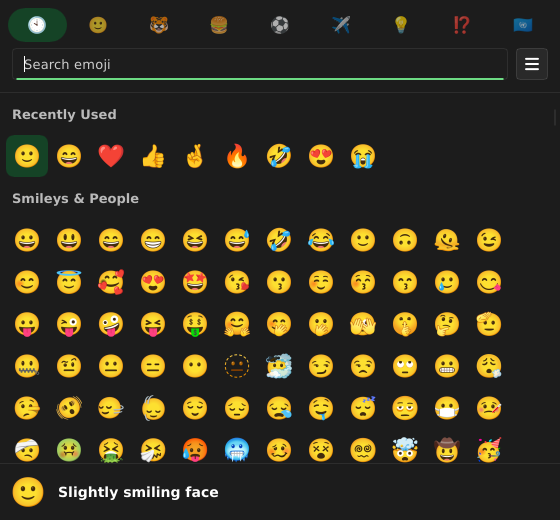
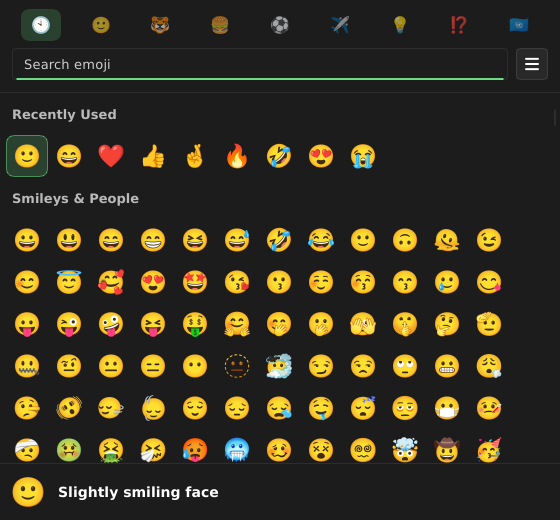
UI polish; remove multi-select; two-step Esc

diff --git a/docs/site/index.html b/docs/site/index.html
@@ -56,7 +56,7 @@
   <h2>Features</h2>
   <ul>
     <li>Instant search, 9 categories that follow scrolling, recent emojis first</li>
-    <li>Keyboard first: arrows, <code>Enter</code> to paste, <code>Shift+Enter</code> for several emojis, <code>Esc</code> to close</li>
+    <li>Keyboard first: arrows, <code>Enter</code> to paste, <code>Esc</code> to close</li>
     <li>Skin tone, emoji size and automatic paste options</li>
     <li>Global shortcut you set by pressing the keys (default <code>Ctrl+Alt+.</code>) on X11</li>
     <li>Optional: do not stay in memory, and open it with your desktop's own shortcut</li>

diff --git a/src/app.rs b/src/app.rs
@@ -49,7 +49,6 @@ const CELL_PADDING: f32 = 14.0;
 /// Image sizes used in `ui/main.slint`; images are rendered at exactly these (times the scale).
 const CATEGORY_PX: f32 = 20.0;
 const PREVIEW_PX: f32 = 36.0;
-const CHOSEN_PX: f32 = 24.0;
 
 /// "Ctrl+Alt+." from a key press, or None for a lone modifier or a key the shortcut parser does not know.
 /// `mods` is [ctrl, alt, shift, meta]; at least one is required (a bare key would steal normal typing).
@@ -219,8 +218,6 @@ struct State {
     row_of: Vec<usize>,
     category_row: [usize; emojis::CATEGORIES.len()],
     selected: usize,
-    /// Emojis queued with Shift+Enter / right click.
-    chosen: Vec<&'static str>,
     columns: usize,
     active: usize,
     saved_scroll: Option<f32>,
@@ -429,7 +426,7 @@ impl App {
         }
     }
 
-    /// Push derived state (selection, preview, multi-select strip, settings) into the UI.
+    /// Push derived state (selection, preview, settings) into the UI.
     fn sync(&self) {
         let ui = self.ui();
         let st = self.st.borrow();
@@ -462,18 +459,6 @@ impl App {
                 ui.set_preview_name("".into());
             }
         }
-        let shown = &st.chosen[st.chosen.len().saturating_sub(4)..];
-        let images: Vec<Image> = shown.iter().map(|c| self.glyphs.image(c, CHOSEN_PX)).collect();
-        ui.set_chosen(ModelRc::new(VecModel::from(images)));
-        let hidden = st.chosen.len() - shown.len();
-        ui.set_chosen_more(
-            if hidden > 0 {
-                format!("+{hidden}")
-            } else {
-                String::new()
-            }
-            .into(),
-        );
     }
 
     // ---- layout and scrolling -------------------------------------------------------------
@@ -628,6 +613,16 @@ impl App {
         true
     }
 
+    /// Moves by one screenful of rows (keeping one row of overlap); stops at the first/last row.
+    fn move_page(&self, direction: i32) {
+        let rows = ((self.ui().get_list_height() / self.st.borrow().cell_px()) as i32 - 1).max(1);
+        for _ in 0..rows {
+            if !self.move_vertical(direction) {
+                break;
+            }
+        }
+    }
+
     fn cycle_category(&self, delta: i32) {
         let count = emojis::CATEGORIES.len() as i32;
         let active = self.st.borrow().active as i32;
@@ -671,31 +666,16 @@ impl App {
             .map(|&e| emojis::char_for(e, st.settings.skin_tone))
     }
 
-    /// Shift+Enter / right click: queue the emoji and keep the picker open.
-    fn append(&self, index: usize) {
-        let Some(ch) = self.emoji_at(index) else { return };
-        let text = {
-            let mut st = self.st.borrow_mut();
-            st.chosen.push(ch);
-            st.settings.push_recent(ch);
-            st.settings.save();
-            st.chosen.concat()
-        };
-        self.copy(&text);
-        self.sync();
-    }
-
-    /// Enter / click: copy (together with anything queued), close and paste.
+    /// Enter / click: copy, close and paste.
     fn select(&self, index: usize) {
         let Some(ch) = self.emoji_at(index) else { return };
-        let (text, paste) = {
+        let paste = {
             let mut st = self.st.borrow_mut();
-            let text = st.chosen.concat() + ch;
             st.settings.push_recent(ch);
             st.settings.save();
-            (text, st.settings.auto_paste)
+            st.settings.auto_paste
         };
-        let copied = self.copy(&text);
+        let copied = self.copy(ch);
         let will_paste = paste && self.x11 && copied;
         // Must be set before hide(): a non-resident FastMoji may only exit after the paste is sent.
         self.paste_pending.set(will_paste);
@@ -772,7 +752,7 @@ impl App {
 
     /// Non-resident mode: quit once the picker is closed and nothing is being pasted. After a
     /// successful paste the job is done and we exit right away. If the user only copied (auto-paste
-    /// off, or a multi-selection that was never pasted), keep serving the clipboard until another
+    /// off), keep serving the clipboard until another
     /// application replaces it (`on_clipboard_lost`), otherwise the copy would be useless.
     fn maybe_exit(&self) {
         if self.resident() || self.paste_pending.get() || self.ui().window().is_visible() {
@@ -911,13 +891,9 @@ impl App {
         self.sync();
     }
 
-    fn accept_selection(&self, shift: bool) {
+    fn accept_selection(&self) {
         let selected = self.st.borrow().selected;
-        if shift {
-            self.append(selected)
-        } else {
-            self.select(selected)
-        }
+        self.select(selected)
     }
 
     // ---- window lifecycle -----------------------------------------------------------------
@@ -945,7 +921,6 @@ impl App {
         self.pasted.set(false);
         {
             let mut st = self.st.borrow_mut();
-            st.chosen.clear();
             st.query.clear();
             st.selected = 0;
             st.active = 0;
@@ -1125,7 +1100,6 @@ pub fn run(show: bool, command: &str) {
         row_of: Vec::new(),
         category_row: [0; emojis::CATEGORIES.len()],
         selected: 0,
-        chosen: Vec::new(),
         columns: 1,
         active: 0,
         saved_scroll: None,
@@ -1199,13 +1173,22 @@ pub fn run(show: bool, command: &str) {
     wire!(on_search, |app, text| app.search(&text));
     wire!(on_width_changed, |app, w| app.on_width(w, false));
     wire!(on_scrolled, |app| app.on_scrolled());
-    wire!(on_hovered, |app, i| app.set_selected(i as usize));
+    // The window opens under the pointer and Slint reports a synthetic move for it; ignore that burst.
+    wire!(on_hovered, |app, i| {
+        if app
+            .shown_at
+            .get()
+            .is_none_or(|t| t.elapsed() > Duration::from_millis(400))
+        {
+            app.set_selected(i as usize);
+        }
+    });
     wire!(on_picked, |app, i| app.select(i as usize));
-    wire!(on_appended, |app, i| app.append(i as usize));
     wire!(on_category_clicked, |app, c| app.jump_to_category(c as usize));
     wire!(on_move_horizontal, |app, d| app.move_horizontal(d));
     wire!(on_move_vertical, |app, d| app.move_vertical(d));
-    wire!(on_accept_selection, |app, shift| app.accept_selection(shift));
+    wire!(on_move_page, |app, d| app.move_page(d));
+    wire!(on_accept_selection, |app| app.accept_selection());
     wire!(on_cycle_category, |app, d| app.cycle_category(d));
     wire!(on_dismiss, |app| app.hide());
     wire!(on_set_tone, |app, i| {

diff --git a/README.md b/README.md
@@ -27,8 +27,8 @@ The Flatpak build matches the native one when resident (23 MB idle, 27 MB shown,
 ## Features
 
 - Instant search, 9 categories that follow scrolling, and your recent emojis first
-- Keyboard first: arrows (also while typing), `Enter` copy and paste, `Shift+Enter` build a multi-emoji selection, `Ctrl+F` search, `Ctrl+Tab` categories (or `Up` from the top row to reach the category bar, then `Left`/`Right`, `Down` to go back), `Esc` close
-- Click copies and pastes, right click adds to the selection
+- Keyboard first: arrows (also while typing), `Enter` copy and paste, `Ctrl+F` search, `Ctrl+Tab` categories (or `Up` from the top row to reach the category bar, then `Left`/`Right`, `Down` to go back), `Esc` clear the search, then close
+- Click copies and pastes
 - Skin tone, emoji size and automatic paste preferences
 - Global shortcut (default `Ctrl+Alt+.`) on X11
 - Optional: **do not stay in memory** (see below)
